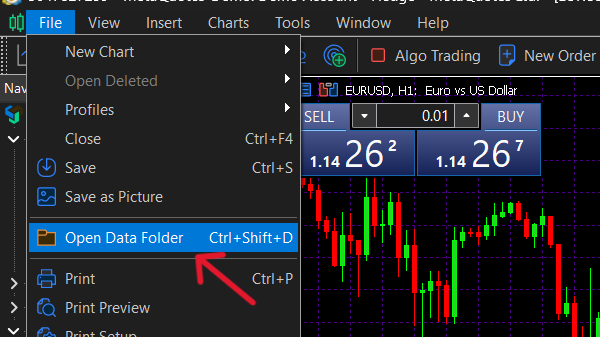
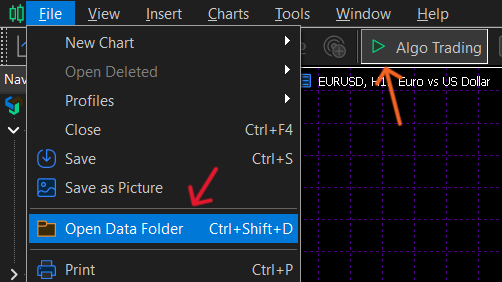
algo trading pic fix

diff --git a/frontend/app/components/PageTour.tsx b/frontend/app/components/PageTour.tsx
@@ -3,7 +3,14 @@
 import React, { useEffect, useState } from "react";
 import { Tour, Button, Modal, App, Carousel } from "antd";
 import type { TourProps } from "antd";
-import { Download, ChevronLeft, ChevronRight, Copy, Check } from "lucide-react";
+import {
+	Download,
+	ChevronLeft,
+	ChevronRight,
+	Copy,
+	Check,
+	Play,
+} from "lucide-react";
 
 interface PageTourProps {
 	user: {
@@ -225,10 +232,14 @@ const PageTour: React.FC<PageTourProps> = ({ user, accountsCount }) => {
 		{
 			title: <div className="text-2xl font-bold mb-1">Open Data Folder</div>,
 			description: (
-				<div className="text-lg text-gray-400 leading-relaxed mb-4">
+				<div className="text-base text-gray-400 leading-relaxed mb-4">
 					In your MetaTrader 5 terminal, navigate to the top menu bar, click on{" "}
 					<b>'File &gt; Open Data Folder'</b> from the dropdown list.
-				</div>
+					<br />
+					<b>IMPORTANT:</b> Algo Trading must always be enabled{" [ "}
+					<Play className="inline-block w-4 h-4 text-[#00FFA3] fill-[#00FFA3] mb-1" />{" "}
+					{" ]."}
+				</div> 
 			),
 			cover: (
 				<img
